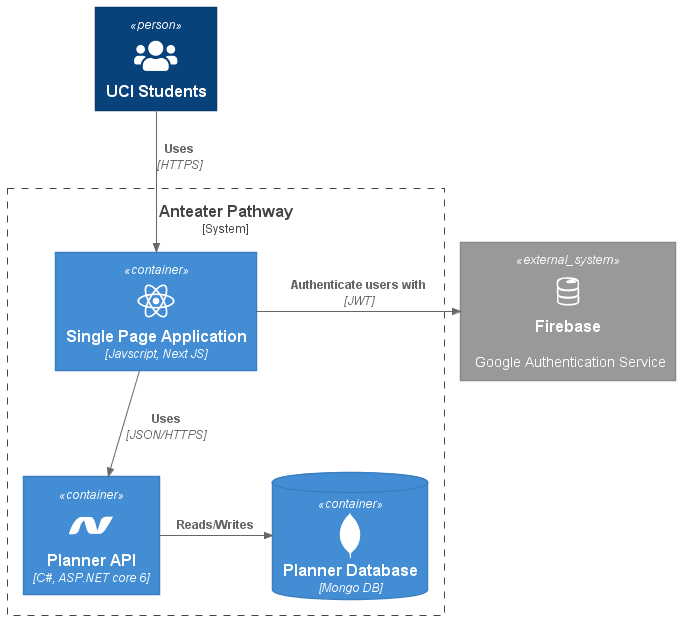
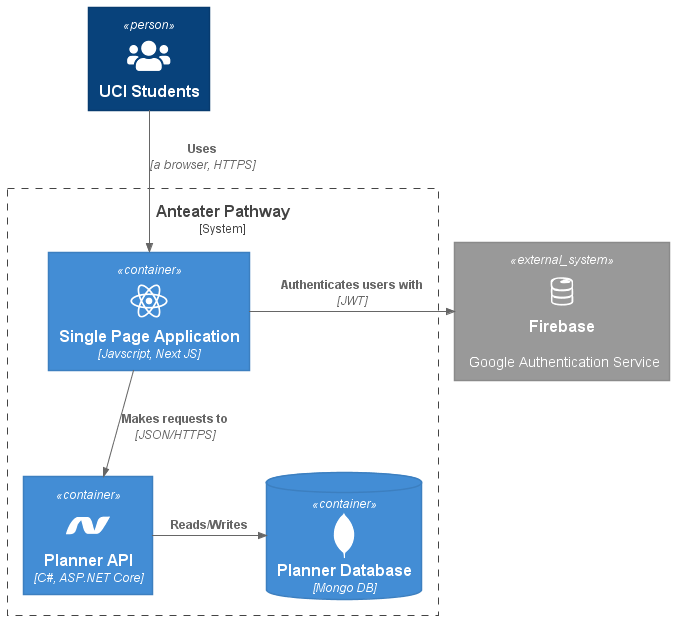
docs: desired system added

diff --git a/docs/spring-2022-development-goals.md b/docs/spring-2022-development-goals.md
@@ -34,24 +34,25 @@
 
 ![Spring 2022 Current HL Architecture](./c4-diagrams/spring-2022-current-HL-archiecture.png)
 
-##### Single Page Application
+#### Single Page Application
 
-The [Next JS](https://nextjs.org/) frontend single page application
+The [Next JS](https://nextjs.org/) frontend single page application. UCI students interact with this UI layer to use the service.
 
-##### Planner API
+#### Planner API
 
-The [ASP.NET core](https://docs.microsoft.com/en-us/aspnet/core/introduction-to-aspnet-core?view=aspnetcore-6.0) web API application for serving the frontend
+The [ASP.NET core](https://docs.microsoft.com/en-us/aspnet/core/introduction-to-aspnet-core?view=aspnetcore-6.0) web API application for serving the frontend. This middle layer API application sits between the UI layer and the backend database, and provides the frontend application with the endpoints to which it can make HTTP requests.
 
 API endpoints:
 
 - user sign-in/out
 - contact us
-- search course data
+- search course item
+- course detailed info
 - planner data load/save
 
-##### Planner Database
+#### Planner Database
 
-The MongoDB backend database for Planner API
+The MongoDB backend database for Planner API. It stores user data and course data.
 
 NoSQL documents:
 
@@ -59,12 +60,33 @@ NoSQL documents:
 - courses
 - planners
 
-##### Firebase
+#### Firebase
 
-The external system for user authentication with Google sign-in
+The external system for authentication with Google sign-in.
 
 - Json Web Token (JWT) is returned to the frontend upon sign-in.
 - JWT is used with HTTP requests to Planner API by the frontend.
-- Firebase provides private keys for Planner API to authenticate HTTP requests and authorize its API endpoints.
+- Firebase provides private keys which can be used by Planner API. Planner API authenticate HTTP requests from frontend and authorize its access to the API endpoints.
 
 ### Desired System High Level Architecture
+
+![Spring 2022 Desired HL Architecture](./c4-diagrams/spring-2022-desired-HL-archiecture.png)
+
+#### Course API
+
+The new Web API application dedicated for serving requests that are related to course data. Fast API, a Python web API framework, is going to be used. A Python web framework is chosen because BeautifulSoup, a very nice web scraping library, is available in the Python ecosystem.
+
+API endpoints:
+
+- scrape course data from the UCI catalogue website [the UCI catalogue website](https://catalogue.uci.edu/allcourses/)
+- scrape course offering history data from [Web Reg](https://www.reg.uci.edu/perl/WebSoc)
+- search course item
+- course detailed info
+
+#### Course Database
+
+Redis or MongoDB NoSQL backend database for storing course data that were scraped.
+
+NoSQL documents:
+
+- courses
